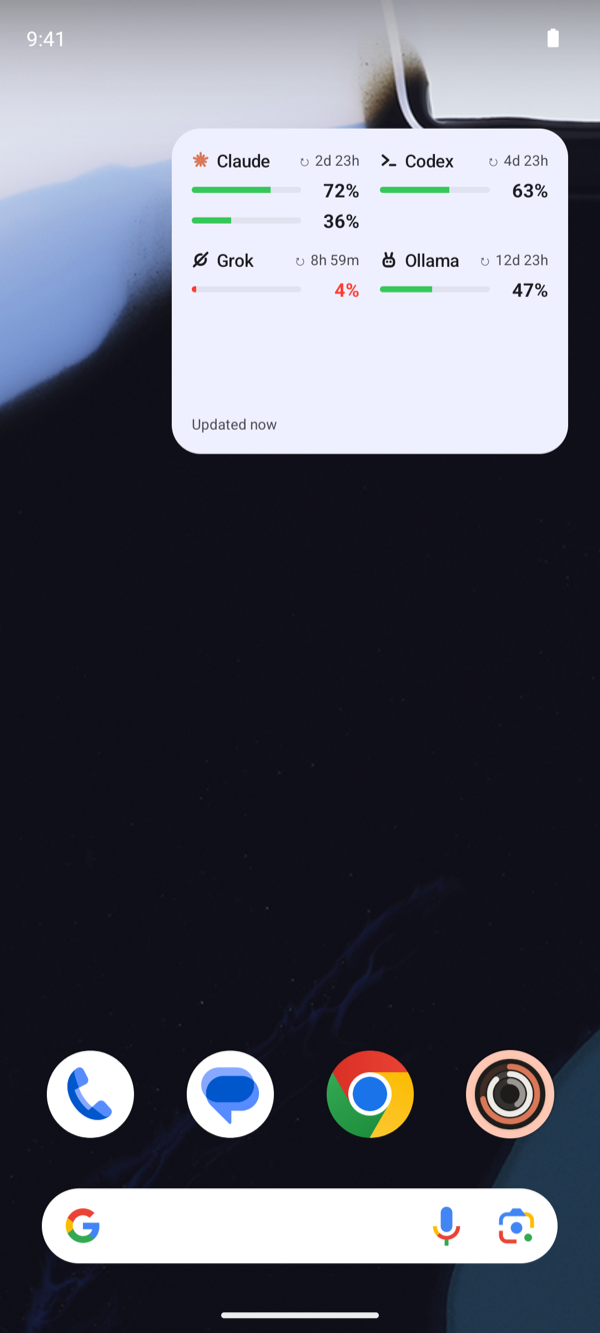
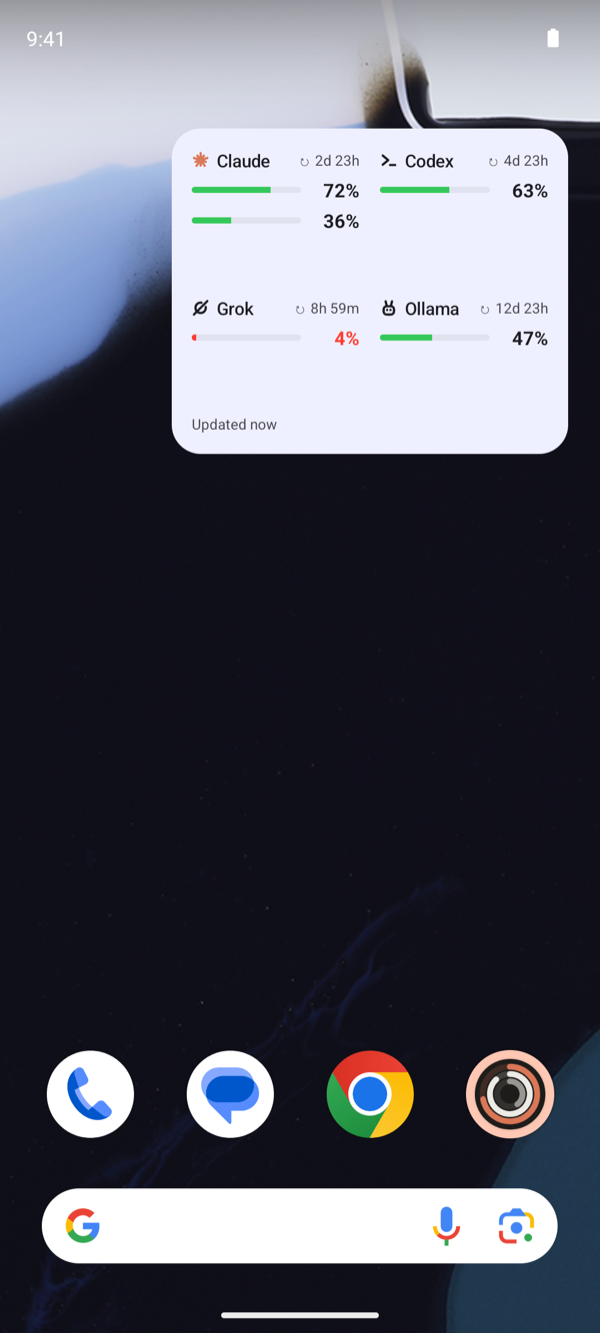
Spread widget rows evenly over the widget height
The free height used to collect in a single spacer above "Updated",
leaving a large gap under the last account. Each row is now followed by
an equal spacer (with a minimum gap), so the rows fill the widget and
"Updated" stays at the bottom.

diff --git a/app/src/main/java/com/turinglabs/quota/widget/QuotaWidget.kt b/app/src/main/java/com/turinglabs/quota/widget/QuotaWidget.kt
@@ -120,6 +120,7 @@ class QuotaWidget : GlanceAppWidget() {
             val headline = account.headline(now) ?: return@mapNotNull null
             Line(account, account.barWindows(now).map { Bar(it, it.remainingPercent(now)) }, headline)
         }.take(4)
+        // The padding keeps a minimum gap; equal-weight spacers spread the remaining height over the rows.
         if (LocalSize.current.width >= MEDIUM.width) {
             lines.chunked(2).forEach { pair ->
                 Row(modifier = GlanceModifier.fillMaxWidth().padding(bottom = 10.dp)) {
@@ -129,6 +130,7 @@ class QuotaWidget : GlanceAppWidget() {
                     }
                     if (pair.size == 1) Spacer(GlanceModifier.defaultWeight())
                 }
+                Spacer(GlanceModifier.defaultWeight())
             }
         } else {
             lines.forEach { line ->
@@ -143,9 +145,9 @@ class QuotaWidget : GlanceAppWidget() {
                         }
                     }
                 }
+                Spacer(GlanceModifier.defaultWeight())
             }
         }
-        Spacer(GlanceModifier.defaultWeight())
         Updated(payload, now)
     }
 

diff --git a/DESIGN.md b/DESIGN.md
@@ -22,4 +22,5 @@ The Android surfaces follow the macOS design system (`DESIGN.md` in the quota re
 - Bars follow the Mac menu bar (`AccountUsage.barWindows`): when an account reports a 5-hour session and a weekly (or monthly) window, it gets two stacked bars, session above, each with its own value and level color; otherwise one bar for the window closest to its limit.
 - **Small** (2 × 2 cells and up): up to four rows of glyph (12 dp), short name (12 sp medium, 44 dp column), then the stacked 4 dp bars each followed by its value (11 sp bold).
 - **Medium** (from 250 dp wide): 2 × 2 tiles: glyph + short name + `↻` countdown of the window closest to its limit (10 sp), then the stacked bars with 13 sp values.
+- Rows (or tile rows) are spread evenly over the widget height, each followed by an equal-weight spacer, so free space never collects above "Updated".
 - "Updated …" in 10 sp at the bottom, orange when older than 30 minutes. States: "Open Quota to pair", "Can't reach the Quota server."
